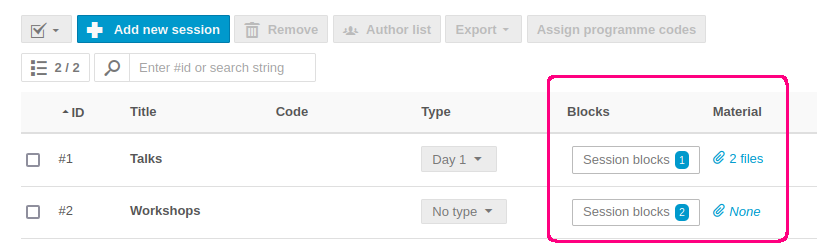
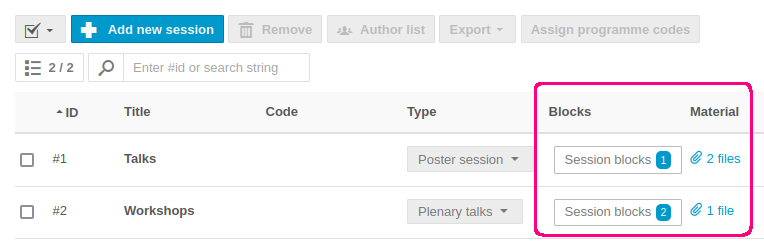
Updates images & clarify some points

diff --git a/docs/conferences/sessions.md b/docs/conferences/sessions.md
@@ -7,7 +7,7 @@ In this part, we will cover how to create and manage sessions from the organizer
 
 ### Creating a session type
 
-Before creating a session, we will first create a session type. Session types can be used to better organize your sessions. To create a new session type, navigate to the management area of an event and select _Sessions_ under _Organization_.
+Before creating a session, we will first create a session type. Session types can help you better organize your sessions but they are not required unless you want to use poster sessions (see the [timetable page](./timetable.md) for more details). To create a new session type, navigate to the management area of an event and select _Sessions_ under _Organization_.
 
 ![](../assets/conferences/sessions/sessions_management.png)
 
@@ -19,7 +19,7 @@ In the new dialogue, click on _New session type_ and select a name.
 
 ![](../assets/conferences/sessions/add_session_type.png)
 
-If you toggle _Poster_, any session with this session type will become a poster session. When creating a timetable for a poster session, all contributions in a session block are automatically scheduled in parallel with the same start time and duration.
+If you toggle _Poster_, any session with this session type will become a poster session. When creating a timetable for a poster session, all contributions in a session block are automatically scheduled in parallel with the same start time and duration. See the [timetable page](./timetable.md) to learn more about session blocks and poster sessions.
 
 ### Creating a session
 
@@ -43,11 +43,11 @@ From the list, you can quickly change the session type. To remove a session type
 
 ![](../assets/conferences/sessions/set_session_type.png)
 
-You can see the scheduled session blocks in each session in the column _Blocks_. To upload material to the session, click on the link in the column named _Material_. This will bring up a dialogue window where you can upload files to the session.
+You can see the scheduled session blocks in each session in the column _Blocks_. To upload material to the session, click on the link in the column named _Material_. This will bring up a dialogue window where you can upload files to the session. Note that this adds the files to the whole session, not to a session block.
 
 ![](../assets/conferences/sessions/blocks_material.png)
 
-The uploaded files will be visible in the event timetable in the corresponding session. The files are available in the session details under _Presentation materials_. 
+The uploaded files will be visible in the event timetable in every session block belonging to that session. The files are also available in the session details under _Presentation materials_.
 
 ![](../assets/conferences/sessions/material.png)
 
